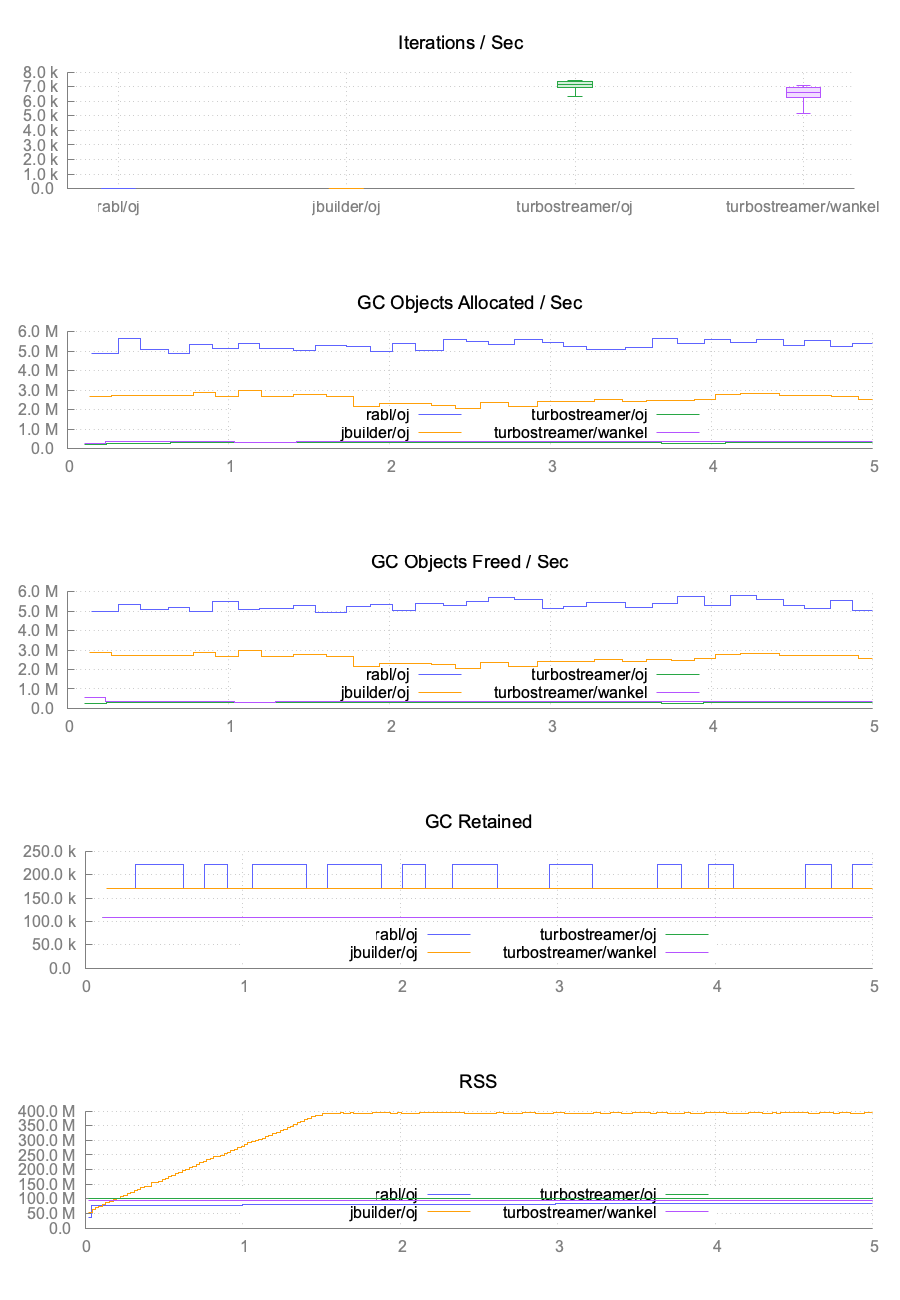
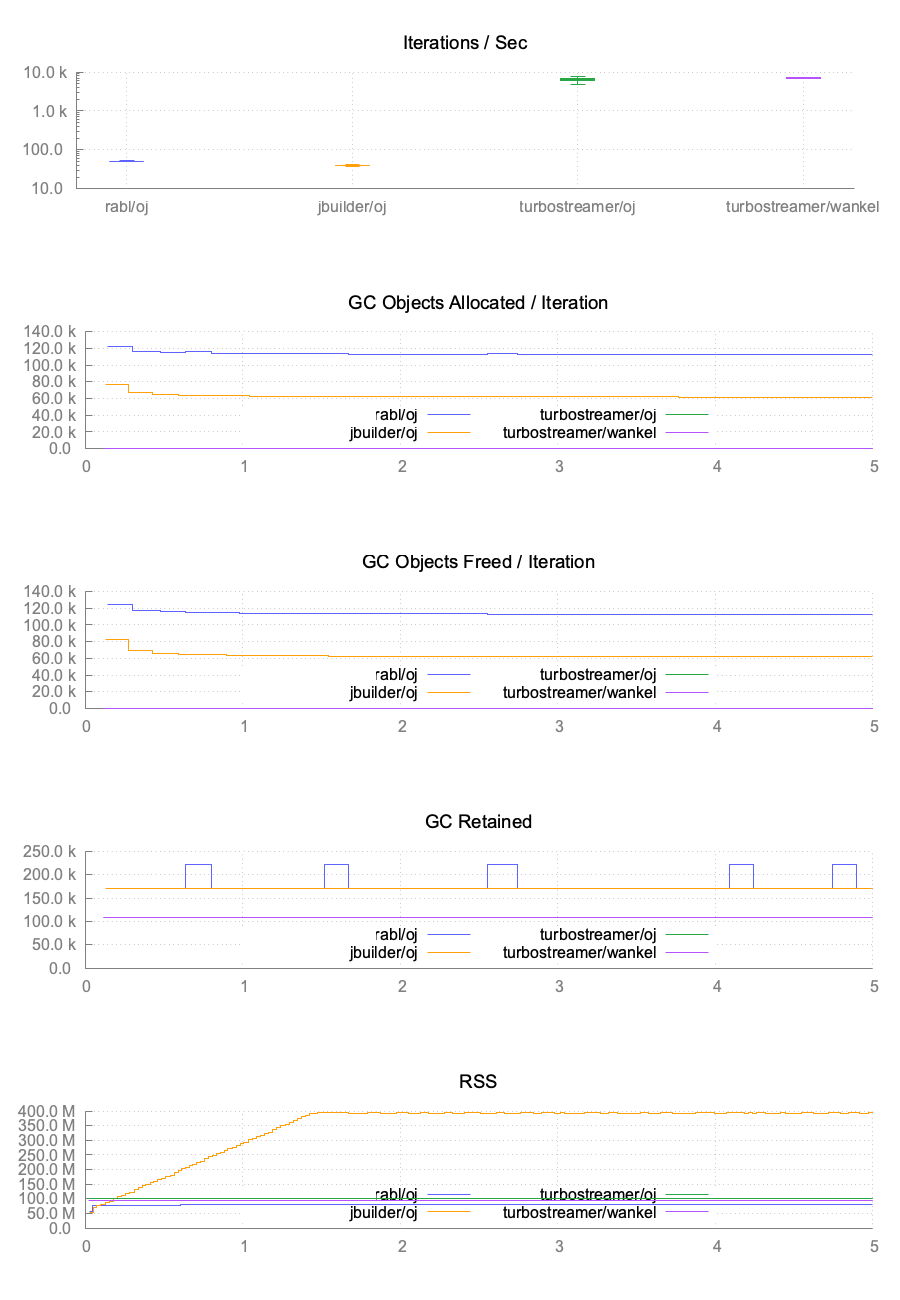
Regenerate reports with per-iteration GC panels and a log iterations axis
The GC panels plotted per-second rates, which are confounded by throughput: an
implementation that completes 150x more renders allocates more per second even
when it allocates a tiny fraction per render. rolftimmermans cached showed
turbostreamer allocating about the same per second as rabl while doing 21x the
iterations (~37 vs ~800 objects per iteration). The panels now show per-
iteration averages, and the iterations axis is logarithmic so implementations
orders of magnitude apart stay visible.

Also documents how to read RSS: the ~400MB line in dirk cached is jbuilder --
fewest iterations, Marshal-loading the 5MB cached hash every hit -- while
turbostreamer holds ~100MB producing ~150x the output.

diff --git a/README.md b/README.md
@@ -460,7 +460,11 @@ All four implementations produce the same document — byte-identical output
 (TurboStreamer's Oj encoder appends a trailing newline), the same fragment
 cached under the same key, and the same live values rendered outside it. RABL
 runs with `cache_sources` enabled so no implementation touches the filesystem
-inside the measured loop.
+inside the measured loop. The GC panels are normalized per iteration, not per
+second — implementations complete vastly different amounts of work in the same
+five seconds, and a per-second axis would make the fastest one look the most
+wasteful. The iterations axis is logarithmic for the same reason. RSS is a
+process-level number and should be read against the iterations panel.
 
 ### rolftimmermans — 22KB document
 
@@ -510,6 +514,10 @@ cached bytes while RABL and jbuilder deserialize and re-serialize 5MB of cached
 objects. At this size a cache hit is actually *slower* for RABL than rebuilding
 from scratch — the effect reported against jbuilder in
 [jbuilder#259](https://github.com/rails/jbuilder/issues/259), reproduced here.
+The RSS panel makes the deserialization cost visible: jbuilder climbs to
+~400MB while completing the *fewest* iterations, Marshal-loading the 5MB
+cached hash on every hit, while TurboStreamer holds around 100MB while
+producing two orders of magnitude more output.
 
 Special Thanks & Contributors
 -----------------------------
